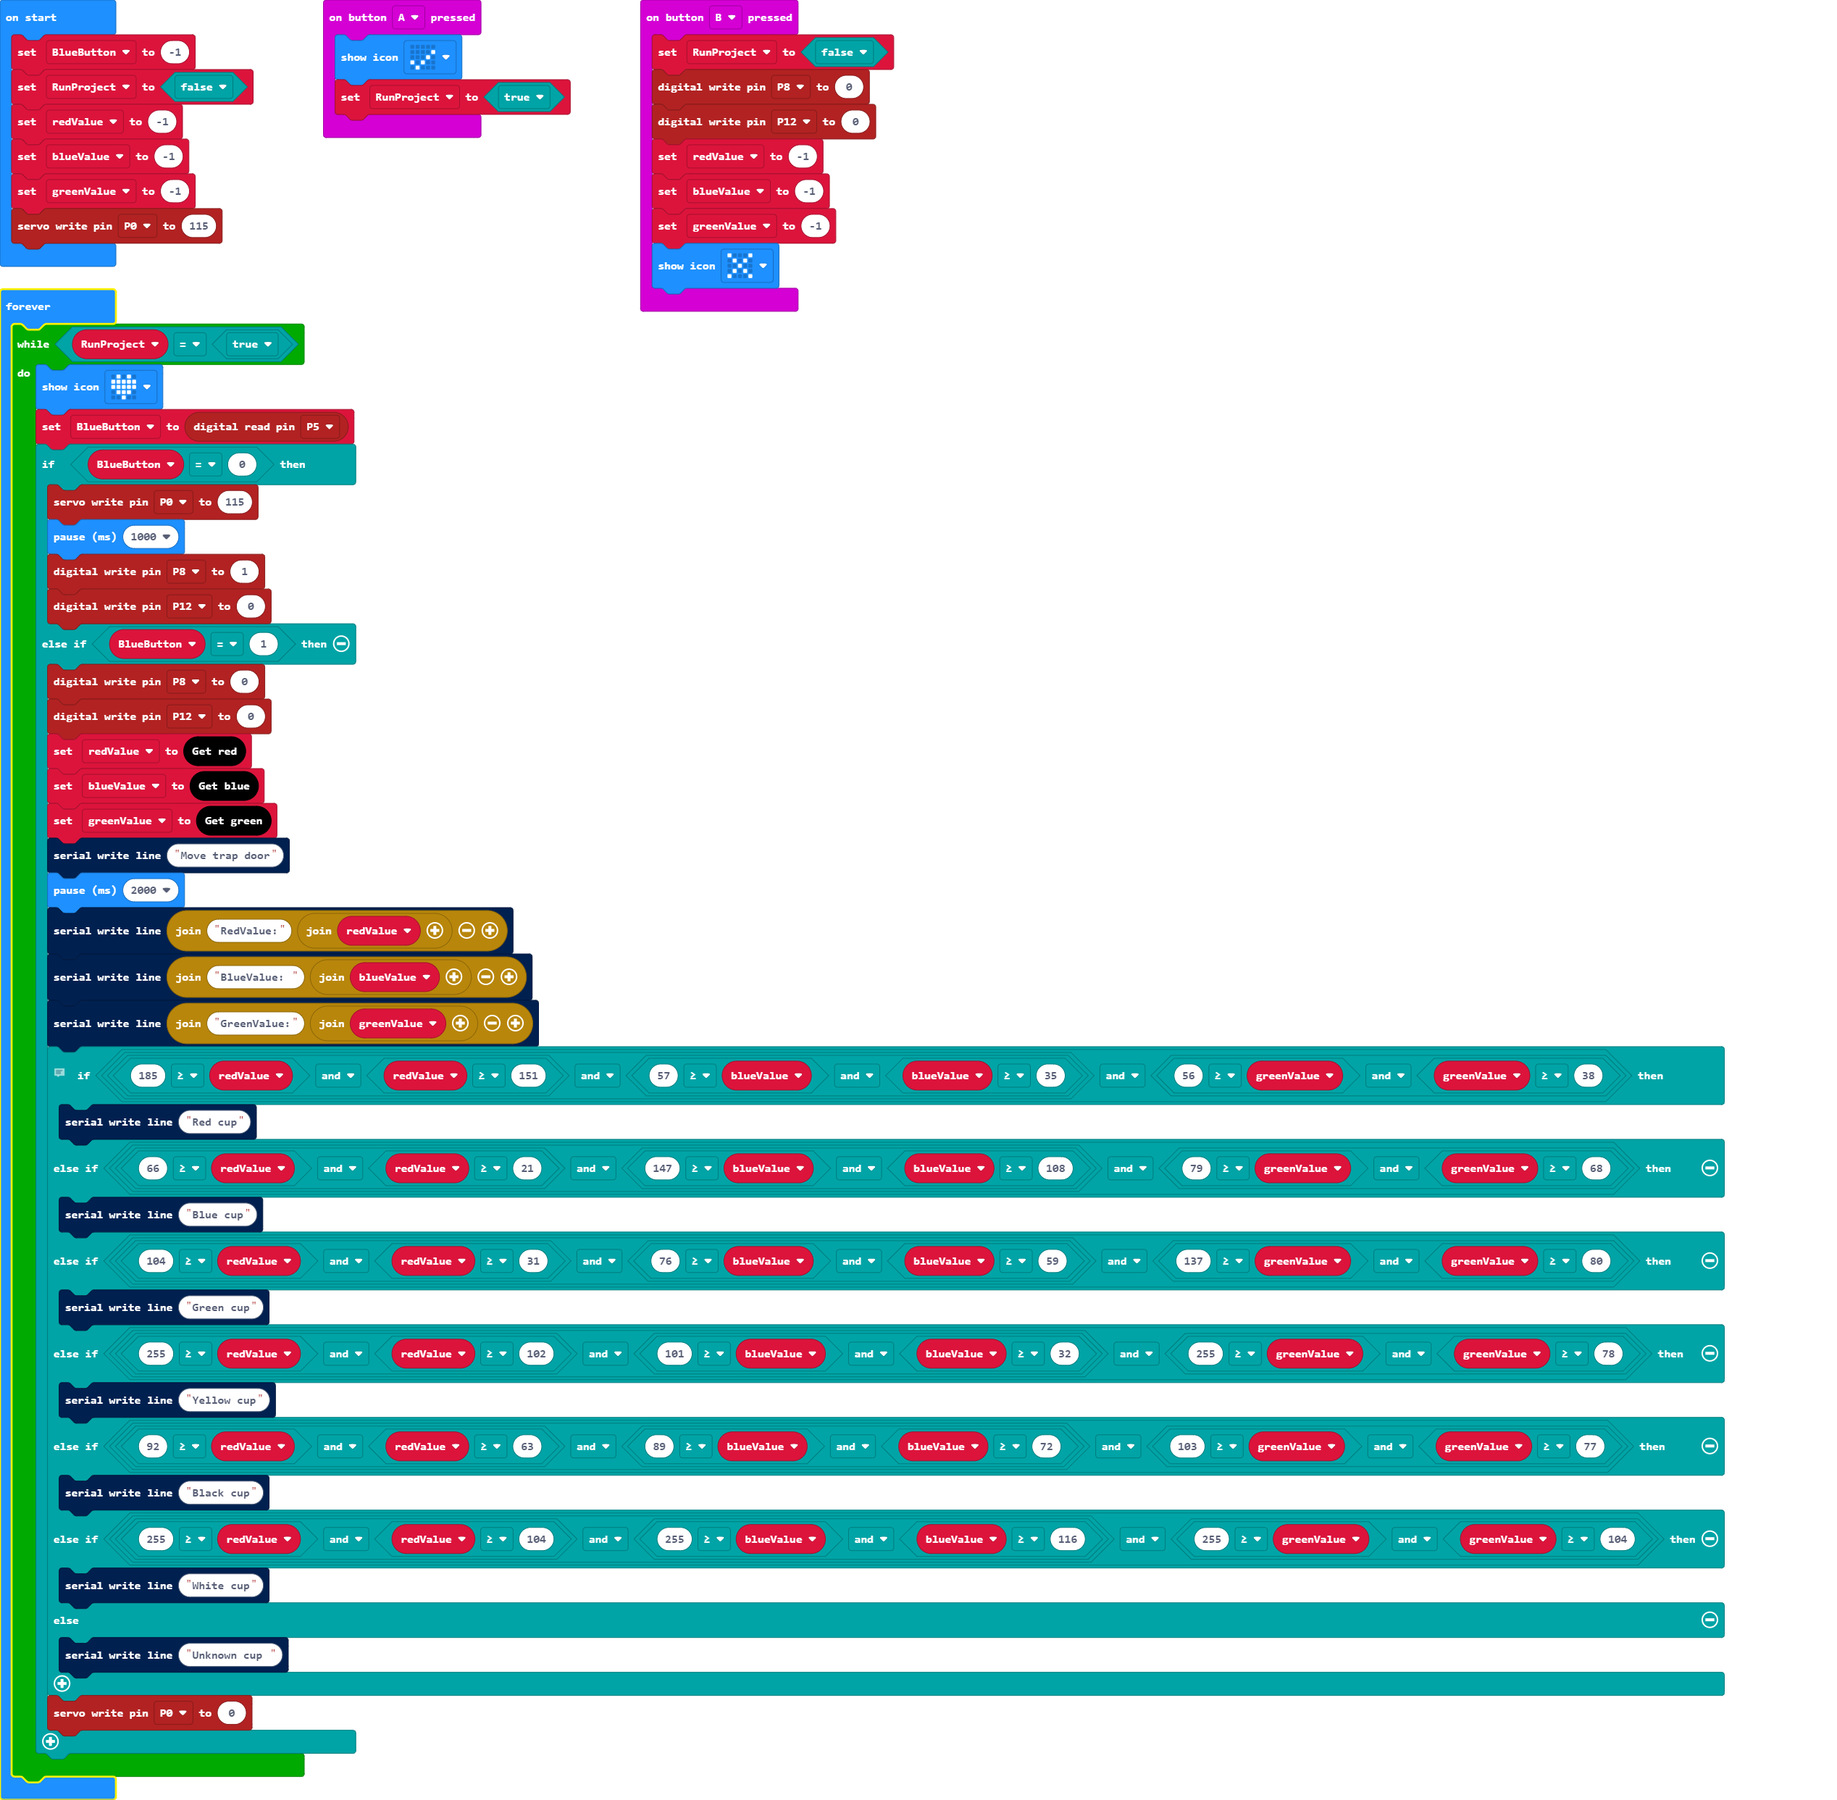
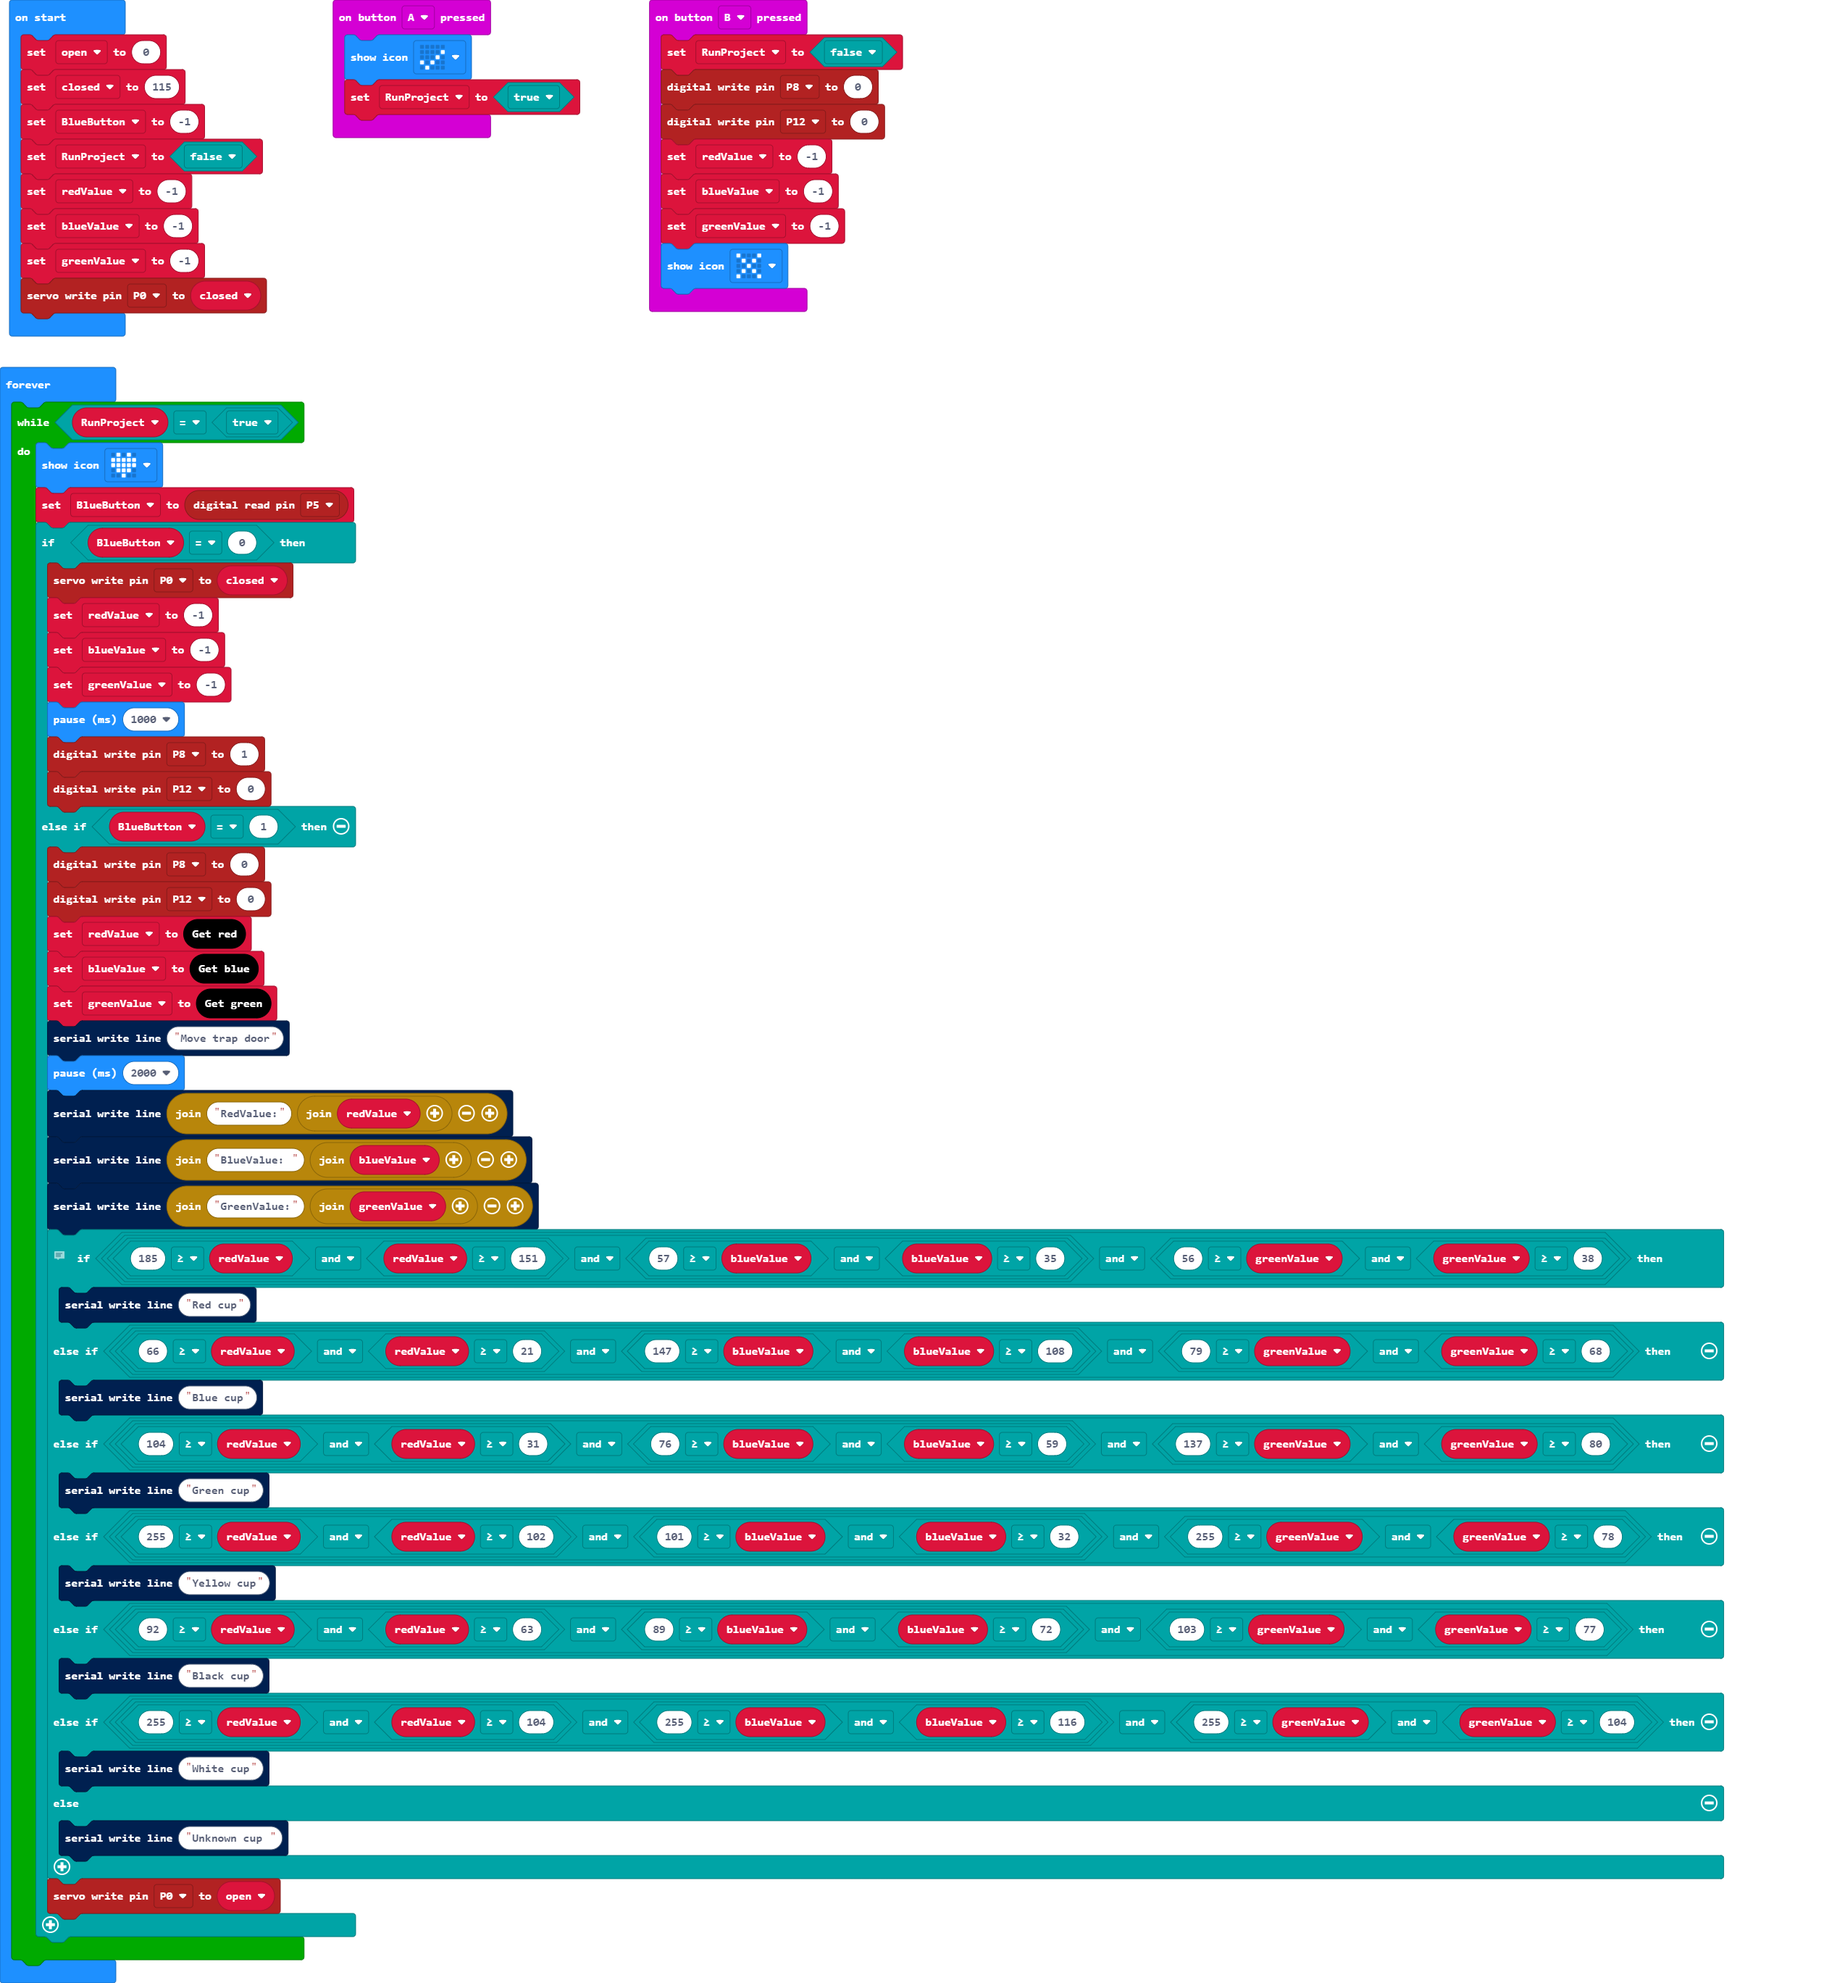
Update main.blocks, main.ts

diff --git a/main.ts b/main.ts
@@ -15,18 +15,23 @@ let greenValue = 0
 let blueValue = 0
 let redValue = 0
 let RunProject = false
+let open = 0
+let closed = 115
 let BlueButton = -1
 RunProject = false
 redValue = -1
 blueValue = -1
 greenValue = -1
-pins.servoWritePin(AnalogPin.P0, 115)
+pins.servoWritePin(AnalogPin.P0, closed)
 basic.forever(function () {
     while (RunProject == true) {
         basic.showIcon(IconNames.Heart)
         BlueButton = pins.digitalReadPin(DigitalPin.P5)
         if (BlueButton == 0) {
-            pins.servoWritePin(AnalogPin.P0, 115)
+            pins.servoWritePin(AnalogPin.P0, closed)
+            redValue = -1
+            blueValue = -1
+            greenValue = -1
             basic.pause(1000)
             pins.digitalWritePin(DigitalPin.P8, 1)
             pins.digitalWritePin(DigitalPin.P12, 0)
@@ -63,7 +68,7 @@ basic.forever(function () {
             } else {
                 serial.writeLine("Unknown cup ")
             }
-            pins.servoWritePin(AnalogPin.P0, 0)
+            pins.servoWritePin(AnalogPin.P0, open)
         }
     }
 })
